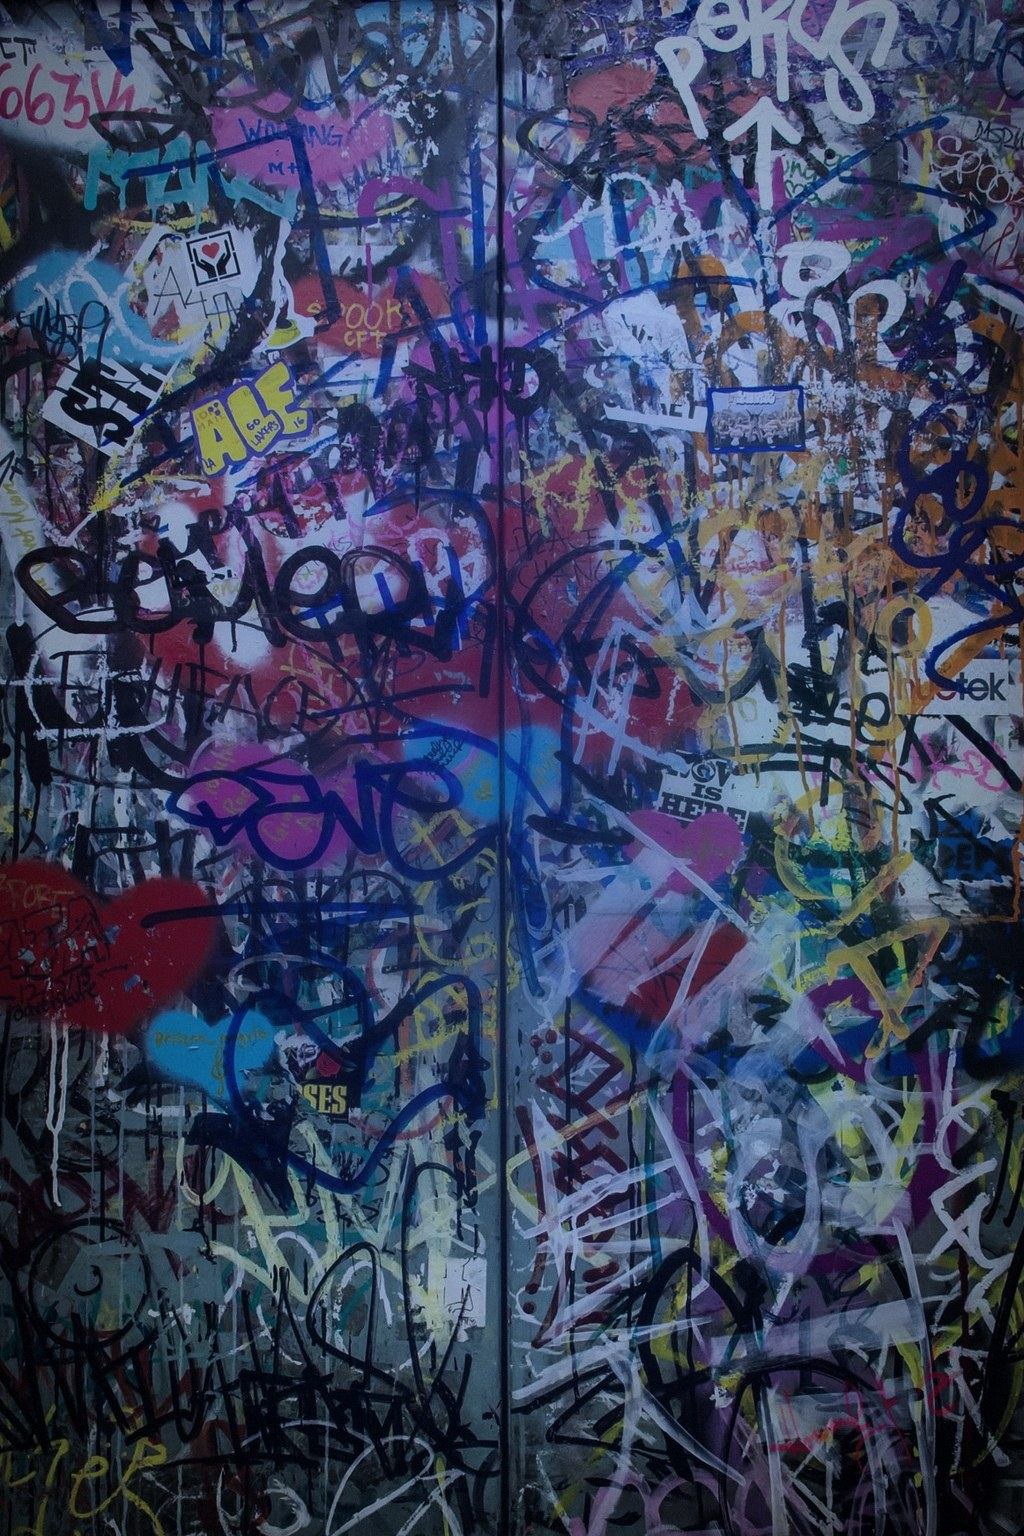
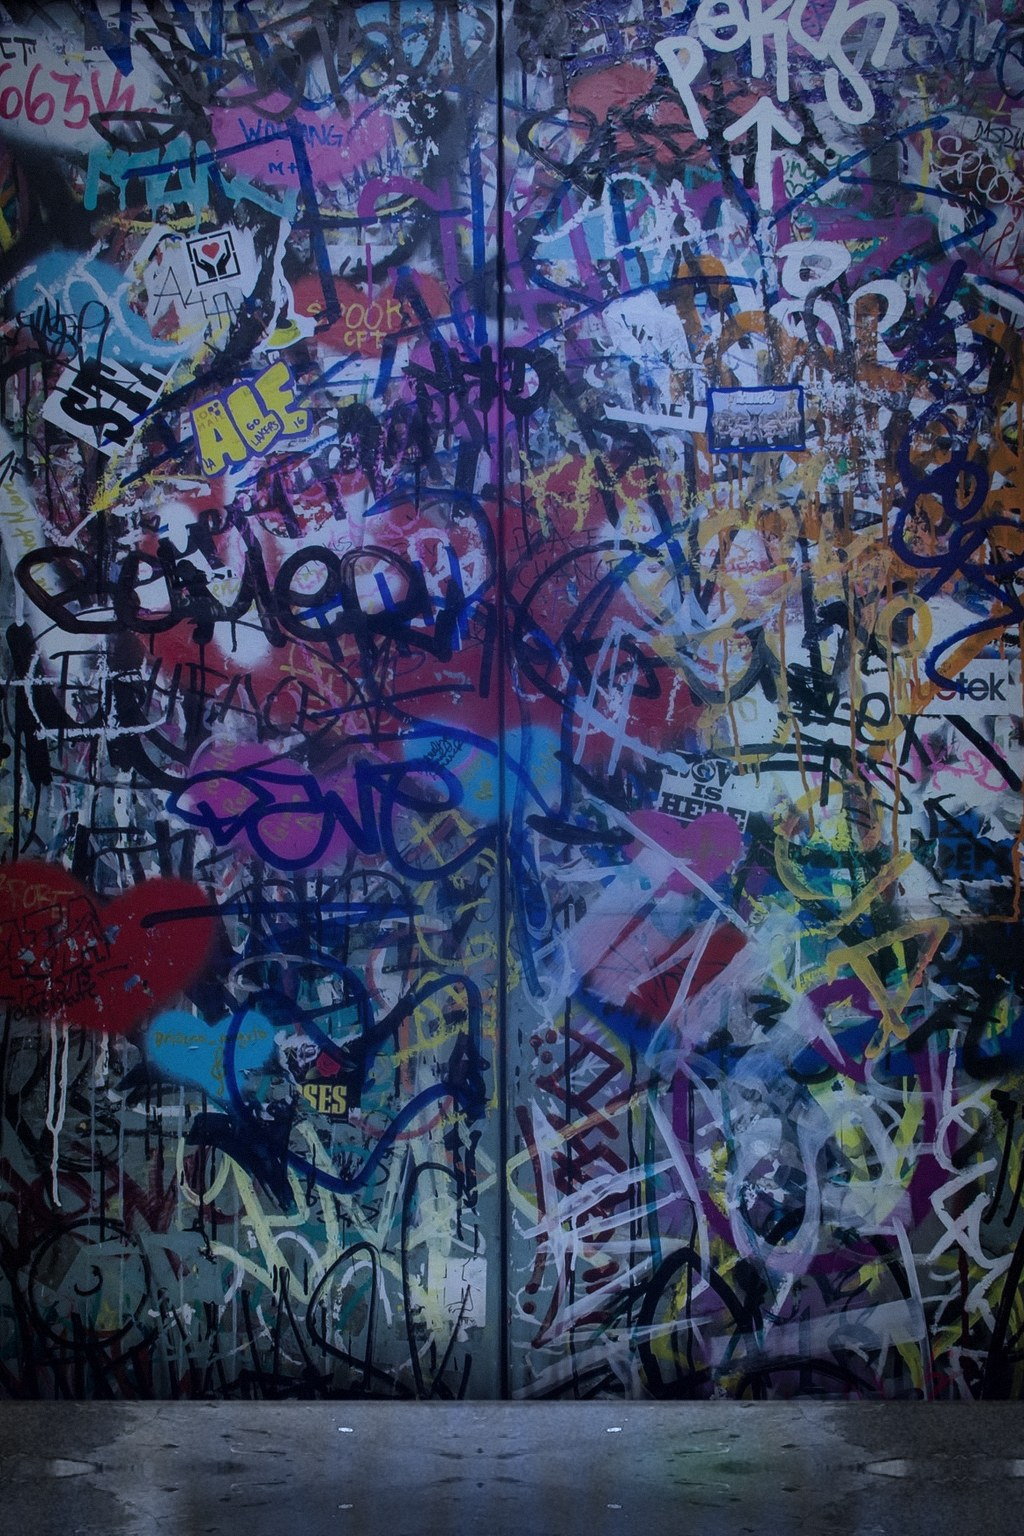
Add files via upload

Changed region(s): [[0.0, 0.8438, 1.0, 1.0]]

diff --git a/PluginEditor.cpp b/PluginEditor.cpp
@@ -133,6 +133,11 @@ void GreenLookAndFeel::drawToggleButton (juce::Graphics& g, juce::ToggleButton& 
     g.drawText (b.getButtonText(), 34, 0, b.getWidth() - 34, b.getHeight(), juce::Justification::centredLeft);
 }
 
+juce::Font GreenLookAndFeel::getPopupMenuFont()
+{
+    return juce::Font (juce::FontOptions (21.0f));
+}
+
 juce::Font GreenLookAndFeel::getTextButtonFont (juce::TextButton&, int)
 {
     return juce::Font (juce::FontOptions (19.0f));
@@ -525,7 +530,13 @@ void AudioToMidiEditor::chooseBackground()
     juce::PopupMenu m;
     m.addItem (1, tr ("Choose a picture..."));
     m.addItem (2, tr ("Built-in background"), processor.getBackgroundFile() != juce::File());
-    m.showMenuAsync (juce::PopupMenu::Options().withTargetComponent (&skinButton), [this] (int r)
+    const int menuW = 340;
+    const auto b = skinButton.getScreenBounds();                      // the menu opens under the icon, its right edge on the icon's
+    m.showMenuAsync (juce::PopupMenu::Options()
+                         .withTargetScreenArea (juce::Rectangle<int> (b.getRight() - menuW, b.getY(), menuW, b.getHeight()))
+                         .withMinimumWidth (menuW)
+                         .withStandardItemHeight (44),
+                     [this] (int r)
     {
         if (r == 1)
         {

diff --git a/PluginEditor.h b/PluginEditor.h
@@ -31,6 +31,7 @@ public:
     void drawButtonBackground (juce::Graphics&, juce::Button&, const juce::Colour&, bool highlighted, bool down) override;
     void drawToggleButton (juce::Graphics&, juce::ToggleButton&, bool highlighted, bool down) override;
     juce::Font getTextButtonFont (juce::TextButton&, int buttonHeight) override;
+    juce::Font getPopupMenuFont() override;
 };
 
 // The palette of whatever look-and-feel a component currently uses
